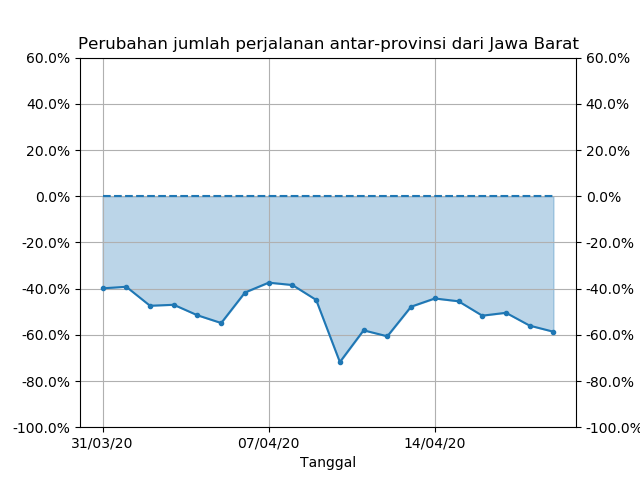
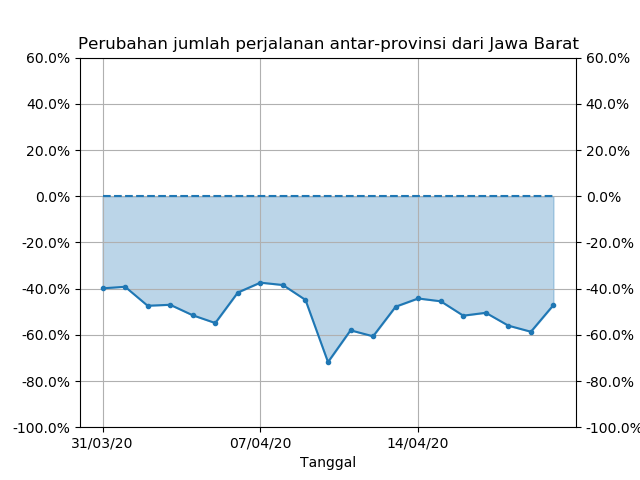
Daily update

diff --git a/idcovid19-mobility.md b/idcovid19-mobility.md
@@ -6,34 +6,34 @@ permalink: /idcovid19-mobility/
 ---
 
 Sumber data: [Facebook GeoInsight](https://www.facebook.com/geoinsights-portal/) dan [Indonesia GeoJSON](https://github.com/superpikar/indonesia-geojson) <br/>
-Diperbarui pada: 20/04/2020<br/>
+Diperbarui pada: 22/04/2020<br/>
 
 #### DKI Jakarta
 
-Rata-rata 10 hari terakhir: \\(\left(-56.3\pm 8.1\right)\%\\)
+Rata-rata 10 hari terakhir: \\(\left(-53.7\pm 5.4\right)\%\\)
 
 <img title="DKI Jakarta" src="{{ site.baseurl }}/assets/idcovid19-mobility/antar-provinsi_dari_dki_jakarta.png" width="50%"/>
 
 #### Jawa Barat
 
-Rata-rata 10 hari terakhir: \\(\left(-54.5\pm 7.9\right)\%\\)
+Rata-rata 10 hari terakhir: \\(\left(-52.0\pm 5.6\right)\%\\)
 
 <img title="Jawa Barat" src="{{ site.baseurl }}/assets/idcovid19-mobility/antar-provinsi_dari_jawa_barat.png" width="50%"/>
 
 #### Jawa Timur
 
-Rata-rata 10 hari terakhir: \\(\left(-22.4\pm 6.1\right)\%\\)
+Rata-rata 10 hari terakhir: \\(\left(-19.5\pm 7.3\right)\%\\)
 
 <img title="Jawa Timur" src="{{ site.baseurl }}/assets/idcovid19-mobility/antar-provinsi_dari_jawa_timur.png" width="50%"/>
 
 #### Sulawesi Selatan
 
-Rata-rata 10 hari terakhir: \\(\left(-45.5\pm 9.5\right)\%\\)
+Rata-rata 10 hari terakhir: \\(\left(-44.3\pm 10.0\right)\%\\)
 
 <img title="Sulawesi Selatan" src="{{ site.baseurl }}/assets/idcovid19-mobility/antar-provinsi_dari_sulawesi_selatan.png" width="50%"/>
 
 #### Jawa Tengah
 
-Rata-rata 10 hari terakhir: \\(\left(-35.6\pm 8.0\right)\%\\)
+Rata-rata 10 hari terakhir: \\(\left(-33.6\pm 7.7\right)\%\\)
 
 <img title="Jawa Tengah" src="{{ site.baseurl }}/assets/idcovid19-mobility/antar-provinsi_dari_jawa_tengah.png" width="50%"/>
